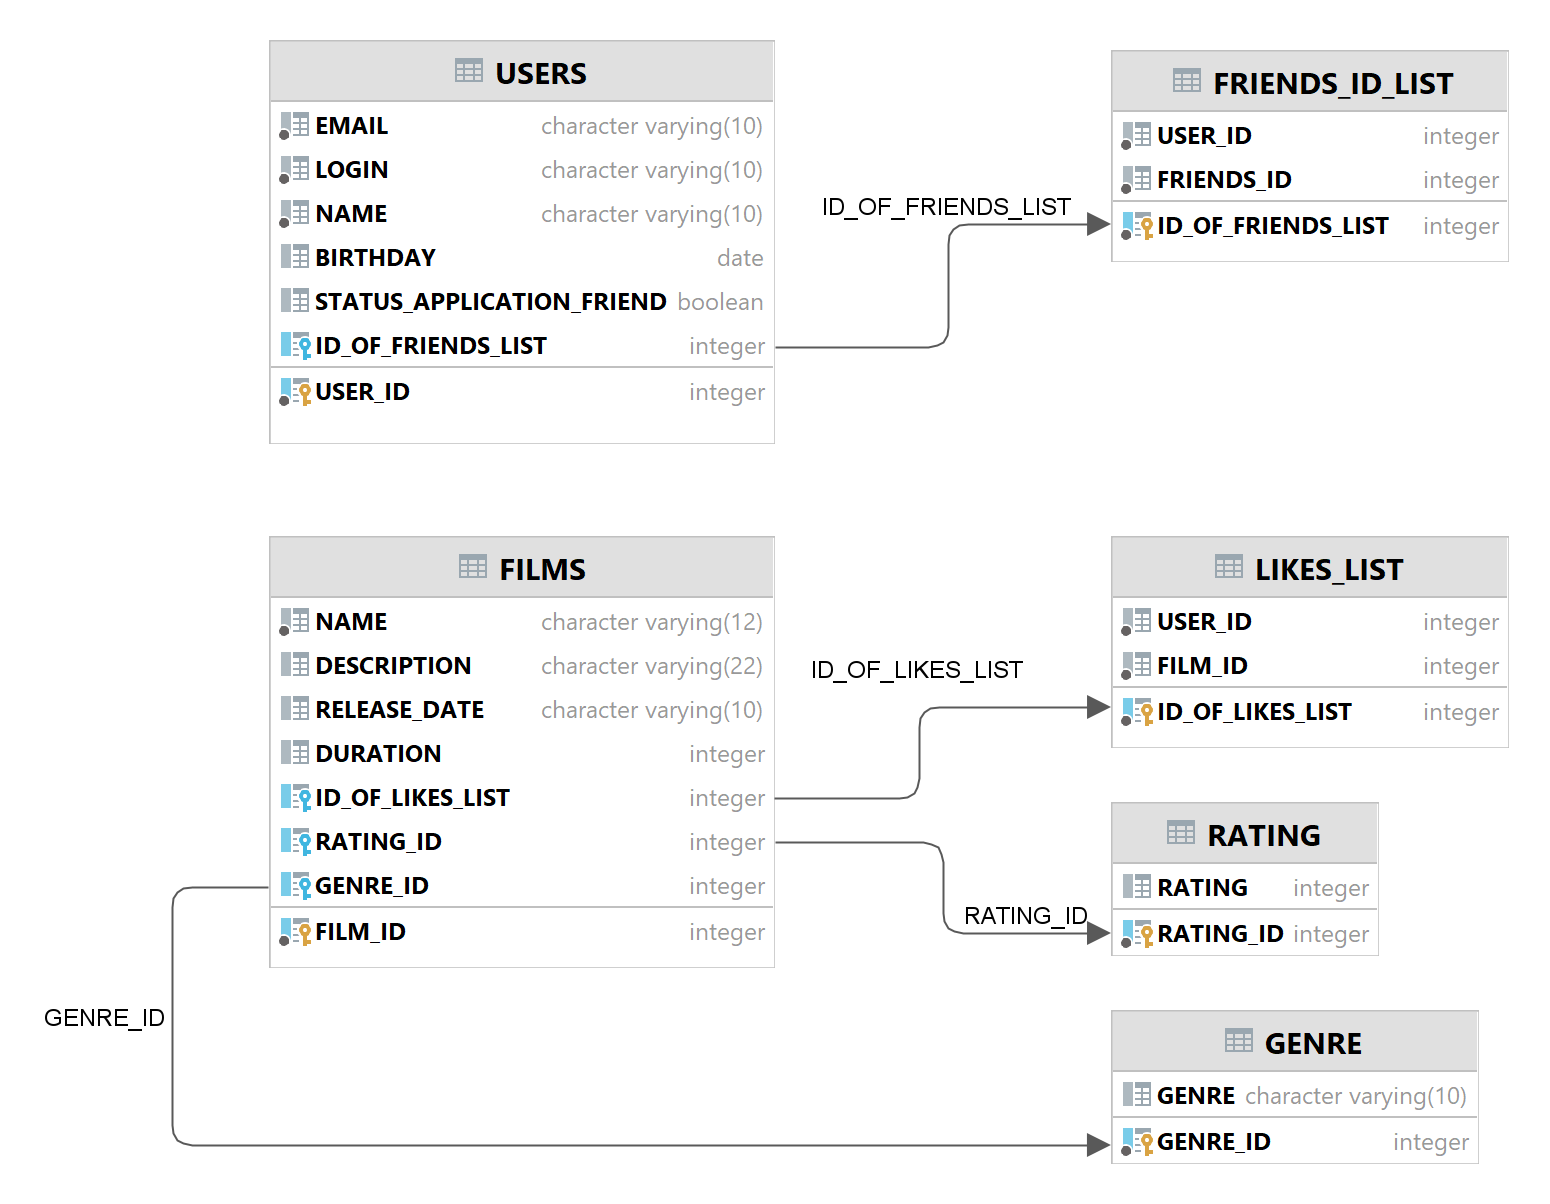
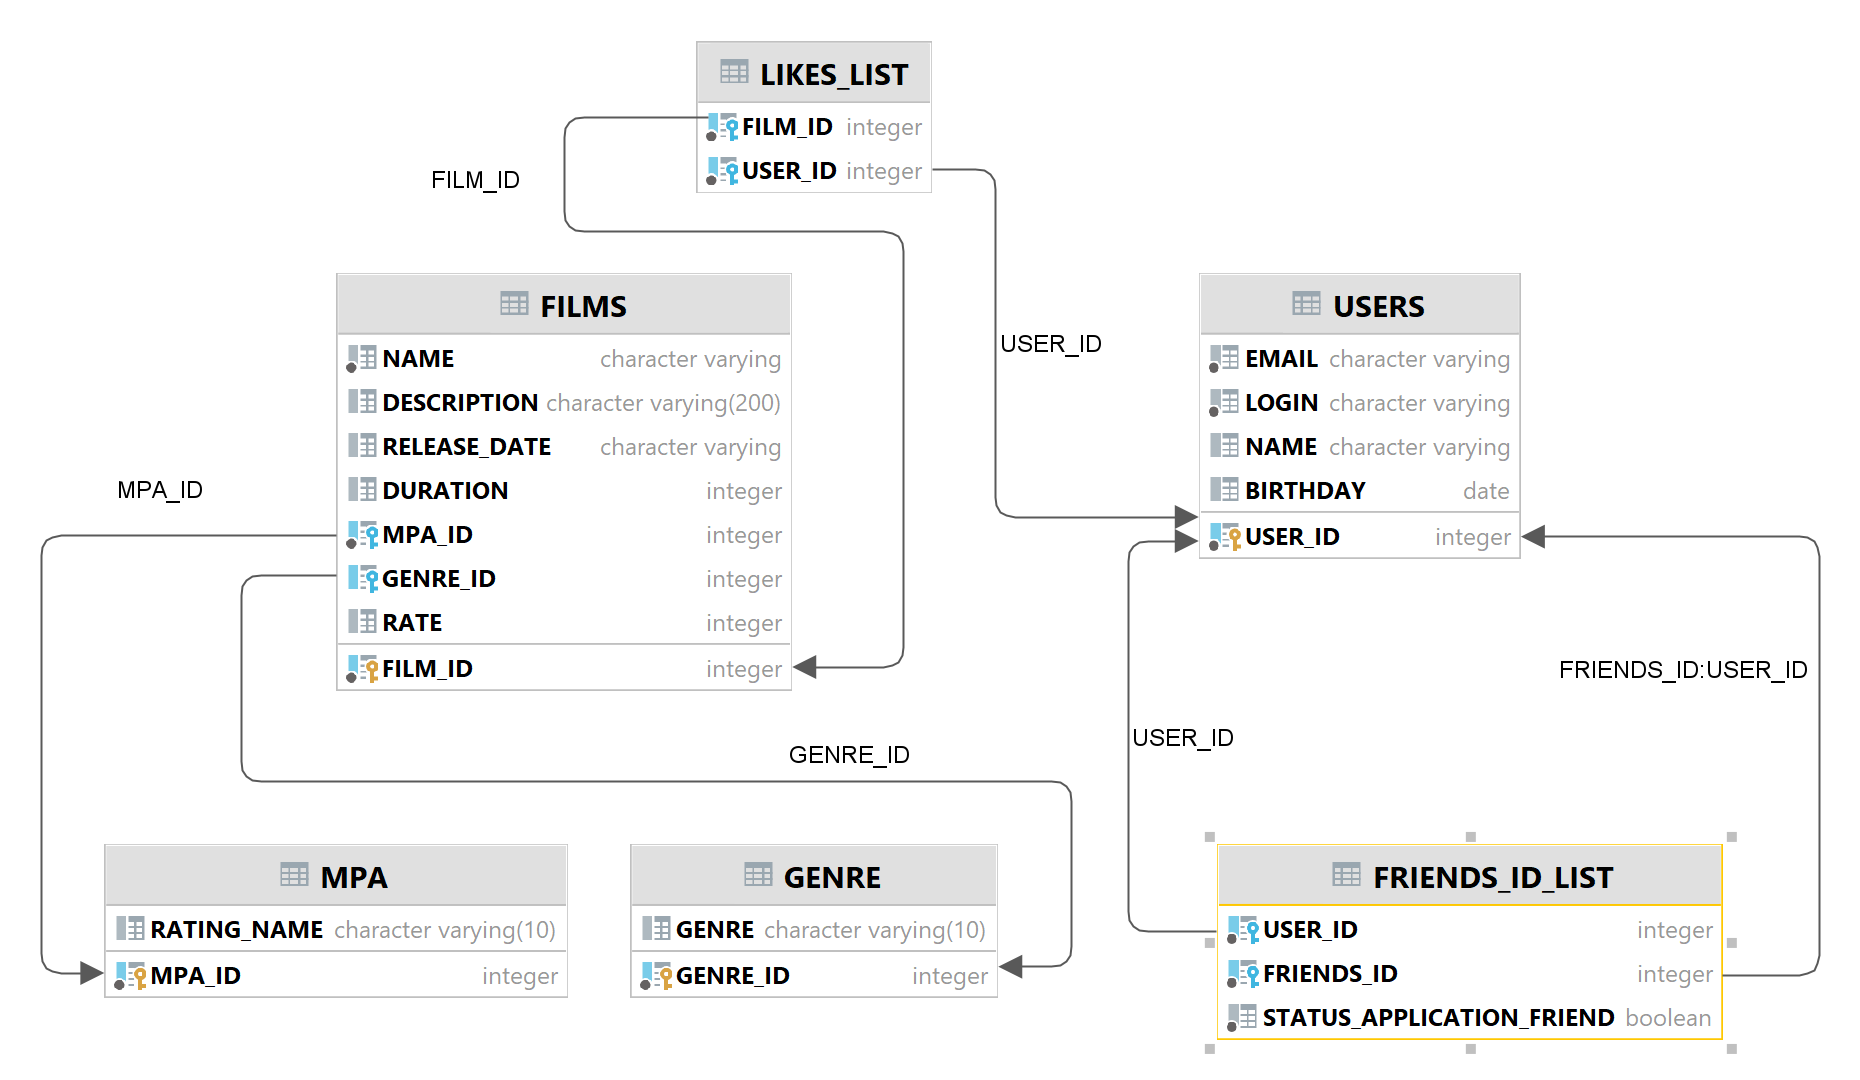
Update scheme sql and README.md.

diff --git a/README.md b/README.md
@@ -2,3 +2,118 @@
 Template repository for Filmorate project.
 
 ![](scheme.png)
+
+Примеры запросов для основных операций:
+
+### <span style="color: green"> 1. Фильмы:</span>
+
+1.1. GET .../films - получение всех фильмов
+```
+SELECT * 
+FROM FILMS;
+```
+1.2. GET .../films/{id} - получение каждого фильма по их уникальному идентификатору
+```
+SELECT * 
+FROM FILMS
+WHERE id = {id};
+```
+1.3. GET .../films/popular?count={count} - возвращает список из первых count фильмов по количеству лайков
+```
+SELECT
+    FL.FILM_ID,
+    COUNT(USER_ID) AS LIKES,
+    F.FILM_ID, NAME, DESCRIPTION, RELEASE_DATE, DURATION, M.RATING_NAME, G.GENRE, RATE
+FROM LIKES_LIST as FL
+JOIN FILMS F on F.FILM_ID = FL.FILM_ID
+JOIN GENRE G on G.GENRE_ID = F.GENRE_ID
+JOIN MPA M on F.MPA_ID = M.MPA_ID
+GROUP BY FL.FILM_ID
+ORDER BY LIKES DESC
+LIMIT 10;
+```
+1.4. POST .../films - добавление фильма
+```
+INSERT INTO FILMS (NAME, DESCRIPTION, RELEASE_DATE, DURATION, MPA_ID, GENRE_ID, RATE) 
+VALUES ('New film', 'New film about friends', '1999-04-30', 120, 2, 3, 4);
+```
+1.5. PUT  .../films/{id} - обновление фильма
+```
+UPDATE FILMS t SET 
+t.NAME = 'Film Updated', 
+t.DESCRIPTION = 'New film update decription', 
+t.RELEASE_DATE = '1989-04-17', 
+t.DURATION = 190, 
+t.GENRE_ID = 2 
+WHERE t.FILM_ID = {id};
+```
+1.6. PUT  .../films/{id}/like/{userId} — пользователь ставит лайк фильму
+```
+INSERT INTO LIKES_LIST (FILM_ID, USER_ID) 
+VALUES ({id}, {userId});
+```
+1.7. DELETE .../films/{id}/like/{userId} — пользователь удаляет лайк
+```
+DELETE FROM LIKES_LIST 
+WHERE FILM_ID = {id} AND USER_ID = {userId};
+```
+### <span style="color: blue"> 2. Пользователи:</span>
+
+2.1. GET .../users - получение списка всех пользователей
+```
+SELECT *
+FROM USERS;
+```
+2.2. GET .../users/{id} - получение каждого пользователя по их уникальному идентификатору
+```
+SELECT * 
+FROM USERS 
+WHERE USER_ID = {id};
+```
+2.3. GET .../users/{id}/friends — возвращаем список пользователей, являющихся его друзьями
+```
+SELECT * 
+FROM FRIENDS_ID_LIST 
+WHERE USER_ID = {id};
+```
+2.4. GET .../users/{id}/friends/common/{otherId} — список друзей, общих с другим пользователем
+```
+SELECT *
+FROM USERS
+WHERE USER_ID IN (
+    SELECT FRIENDS_ID 
+    FROM FRIENDS_ID_LIST 
+    WHERE FRIENDS_ID_LIST.USER_ID = {id})
+INTERSECT
+SELECT *
+FROM USERS
+WHERE USER_ID IN (
+    SELECT FRIENDS_ID 
+    FROM FRIENDS_ID_LIST 
+    WHERE FRIENDS_ID_LIST.USER_ID = {otherId});
+```
+2.5. POST .../users - создание пользователя
+```
+INSERT INTO USERS (EMAIL, LOGIN, NAME, BIRTHDAY)
+VALUES ('friend@mail.ru', 'friend', 'friend adipisicing', '1978-08-20');
+```
+2.6. PUT .../users/{id} - обновление пользователя
+```
+UPDATE USERS t 
+SET t.EMAIL = 'update@mail.ru', 
+t.NAME = 'update adipisicing' 
+WHERE t.USER_ID = {id};
+```
+2.7. PUT .../users/{id}/friends/{friendId} — добавление в друзья
+```
+INSERT INTO FRIENDS_ID_LIST (USER_ID, FRIENDS_ID, STATUS_APPLICATION_FRIEND) 
+VALUES ({id}, {friendId}, true);
+```
+2.8. DELETE /users/{id}/friends/{friendId} — удаление из друзей
+```
+DELETE 
+FROM FRIENDS_ID_LIST 
+WHERE USER_ID = {id} 
+AND FRIENDS_ID = {friendId} 
+AND STATUS_APPLICATION_FRIEND = true;
+```
